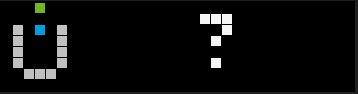
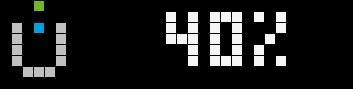
Added better image for GruenbeckPlugin configuration page; Webrequests are only performed if WiFi.status() reports connected.

diff --git a/src/Plugin/Plugins/GruenbeckPlugin.cpp b/src/Plugin/Plugins/GruenbeckPlugin.cpp
@@ -366,20 +366,29 @@ bool GruenbeckPlugin::requestNewData()
 {
     bool    status  = false;
     String  url     = String("http://") + m_ipAddress + "/mux_http";
+    wl_status_t connectionStatus    = WiFi.status();
 
-    if (true == m_client.begin(url))
+    if (WL_CONNECTED == connectionStatus)
     {
-        m_client.addPar("id","42");
-        m_client.addPar("show","D_Y_10_1~");
-
-        if (false == m_client.POST())
+        if (true == m_client.begin(url))
         {
-            LOG_WARNING("POST %s failed.", url.c_str());
+            m_client.addPar("id","42");
+            m_client.addPar("show","D_Y_10_1~");
+
+            if (false == m_client.POST())
+            {
+                LOG_WARNING("POST %s failed.", url.c_str());
+            }
+            else
+            {
+                status = true;
+            }
         }
         else
         {
-            status = true;
+            LOG_ERROR("Requesting new data failed");
         }
+        
     }
 
     return status;

diff --git a/src/Plugin/Plugins/SunrisePlugin.cpp b/src/Plugin/Plugins/SunrisePlugin.cpp
@@ -350,19 +350,22 @@ bool SunrisePlugin::requestNewData()
 {
     bool    status  = false;
     String  url     = String("http://api.sunrise-sunset.org/json?lat=") + m_latitude + "&lng=" + m_longitude + "&formatted=0";
+    wl_status_t connectionStatus    = WiFi.status();
 
-    if (true == m_client.begin(url))
+    if (WL_CONNECTED == connectionStatus)
     {
-        if (false == m_client.GET())
+        if (true == m_client.begin(url))
         {
-            LOG_WARNING("GET %s failed.", url.c_str());
-        }
-        else
-        {
-            status = true;
+            if (false == m_client.GET())
+            {
+                LOG_WARNING("GET %s failed.", url.c_str());
+            }
+            else
+            {
+                status = true;
+            }
         }
     }
-
     return status;
 }
 

diff --git a/src/Plugin/Plugins/SunrisePlugin.h b/src/Plugin/Plugins/SunrisePlugin.h
@@ -84,7 +84,7 @@ public:
         m_textCanvas(nullptr),
         m_iconCanvas(nullptr),
         m_bitmapWidget(),
-        m_textWidget("\\calign?"),
+        m_textWidget("?"),
         m_longitude(),
         m_latitude(),
         m_configurationFilename(""),
